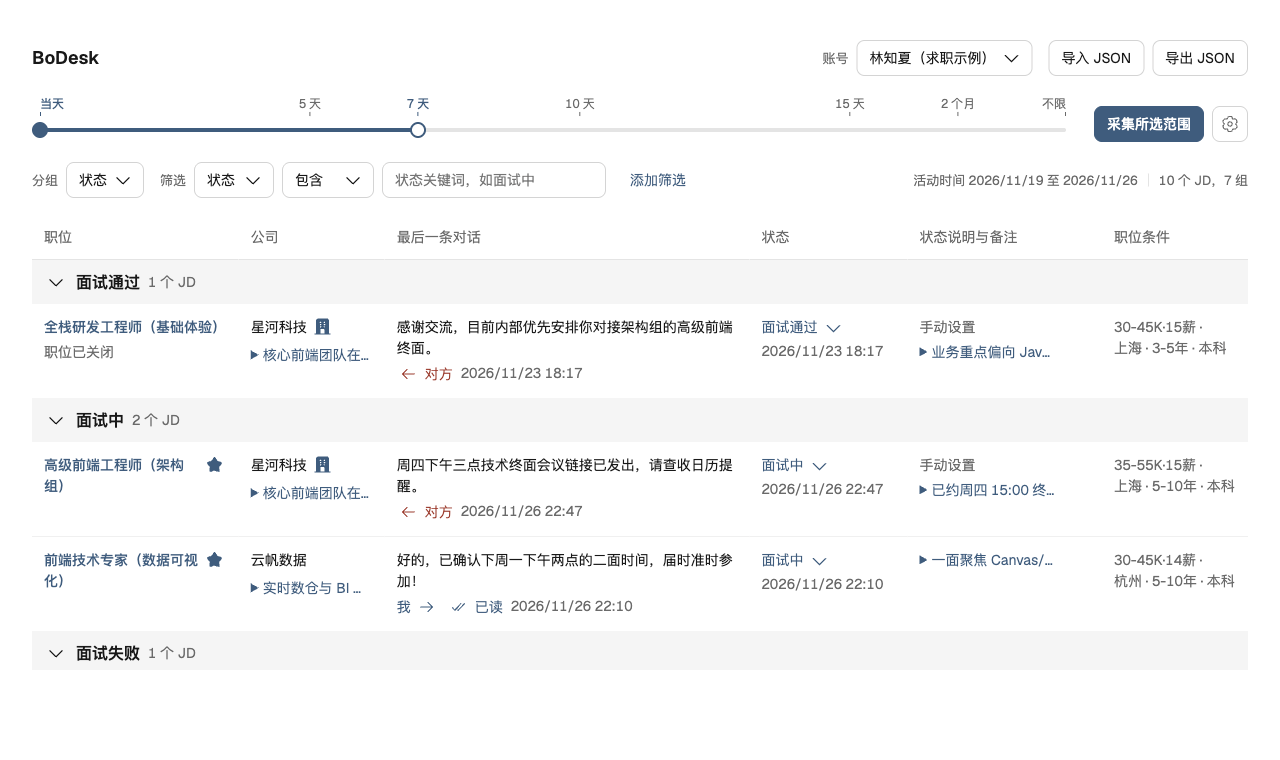
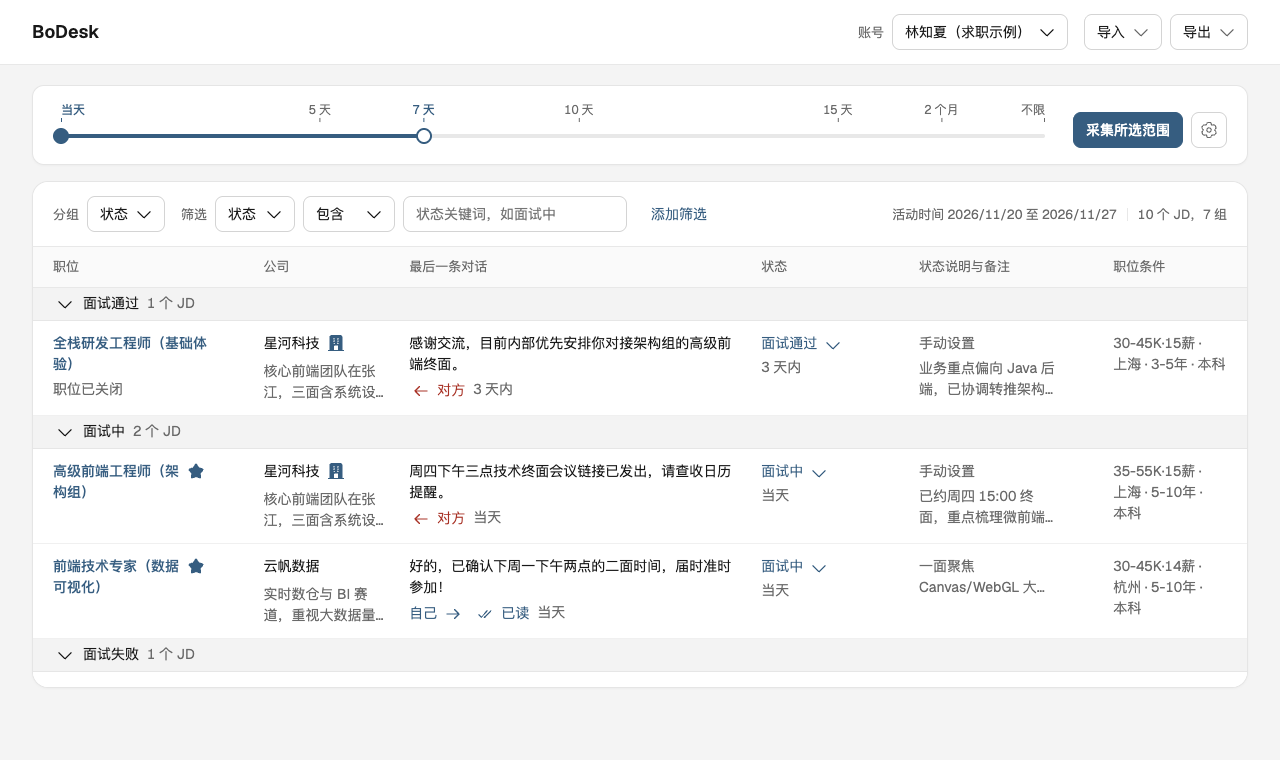
docs: update README and preview media for v0.14.1

diff --git a/extension/README.md b/extension/README.md
@@ -11,21 +11,21 @@
 1. 在同一个「爬虫」空间登录 BOSS 直聘并打开聊天页。扩展加载后需要刷新已打开的 BOSS 页，页面右下角会出现公司与职位浮窗：首行是公司名称，下面每行展示一个 JD 及状态。同公司 JD 按最早已知对话时间从早到晚排列，当前 JD 只高亮、不置顶。没有可用时间的 JD 放在末尾，时间相同或都缺失时按固定记录 ID 排序。新消息、状态和备注变化不会改变顺序；补充到更早历史时，才可能按新发现的首次时间调整。
 2. 点击浮窗的「JD 看板」或浏览器扩展按钮，在同一页选择账号和活动日期，再点「采集所选范围」。采集只处理已加载列表中可能有范围内消息的会话，保存范围内的历史。历史按时间倒序时，翻到起始日期以前即停止。将开始设为「不限」、结束设为当天，可采集全部已加载会话。在「采集设置与详情」的「采集请求间隔」可将当前账号的最短间隔设为 1 至 15 秒，默认 3 秒。调整后自动保存，下一轮采集生效。插件逐个发送主动请求，新打开的页面首次请求前也会等待设定的时长，每发出 20 次再休息 20 秒；会话多时需要较长时间，请保持聊天页打开。可以停止；已保存的记录会保留。出现限流、验证、登录失效、异常响应或网络错误时，插件停止整轮更新，不自动重试；限流或验证异常后同一页面至少等待 5 分钟，并遵守更长的服务器 `Retry-After`，其他请求错误后等待至少 1 分钟；处理问题后可手动再次更新；目前会从列表开头重新读取，已保存的消息按会话和消息 ID 去重，并非从中断位置续传。
 3. 所有 JD 使用同一套卡片布局，当前 JD 以浅绿底色标出。窄屏首次打开时浮窗收起，点击方向箭头查看。消息显示不下时，点击消息右侧的方向箭头查看全文。直接点击任一 JD 的状态文字即可在浮层选择新状态，再点击“确认修改”保存。选择“跟随自动判断”并确认，可撤销手动状态。公司与 JD 的备注都显示在各自标题下方，点击标题右侧的备注图标打开编辑浮层。编辑时暂停浮窗自动刷新，保存失败或切换编辑入口时会保留备注草稿。刷新网页会清除未保存的草稿。
-4. 公司备注与 JD 备注在浮窗中分别保存，不会因自动采集而覆盖；同一条备注在其他页面改变时，保存会提示冲突并保留草稿。历史待定 JD 合并后出现不同备注时，会在“合并前的备注”中保留原文。每个 JD 只有一个当前状态，人工标记优先；面试阶段统一标记为“面试中”。看板可导出当前账号的记录（含备注），也可导入本扩展的 JSON 备份。导入按文件里的账号补入缺少的记录，相同 ID 保留本地版本。导出文件包含隐私，请妥善保管。
+4. 公司备注与 JD 备注在浮窗中分别保存，不会因自动采集而覆盖；同一条备注在其他页面改变时，保存会提示冲突并保留草稿。历史待定 JD 合并后出现不同备注时，会在“合并前的备注”中保留原文。每个 JD 只有一个当前状态，人工标记优先；面试阶段统一标记为“面试中”。看板右上角提供「导入」「导出」二级菜单：导出仅包含当前筛选命中的职位及其关联公司、对话、消息与事件（菜单内会提示当前数量），支持导出 JSON 文件或直接复制 JSON 内容备份，也支持复制/导出按当前分组结构生成的 Markdown 摘要用于 AI 分析；导入支持从 JSON 文件导入或弹窗直接粘贴 JSON 导入，按文件里的账号补入缺少的记录并保留本地版本。导出内容包含隐私，请妥善保管。
 5. 职位列表的右侧详情区、独立职位详情页和公司在招职位页使用与聊天页相同的浮窗，可修改状态、公司备注和 JD 备注。当前职位用 ID 匹配，已保存的职位保持原排序。能识别公司、标题和 ID 的新职位会显示临时行，保存 JD 备注或状态时才入库。只保存公司备注时仅更新公司记录，浏览和切换职位不会创建对话。浮窗中的 JD 标题可点击，在新标签打开详情页。
 6. 打开 BOSS 个人中心的「感兴趣 → 职位收藏」或「公司收藏」，扩展会收录当前页加载的收藏记录。职位收藏用星标，公司收藏用楼宇图标。未发生对话的收藏 JD 归在「待沟通」组，没有状态时间的职位仅在不限范围时显示。没有可展示 JD 的收藏公司列在看板的「收藏公司」区。取消收藏只更新相应标识，原有对话和备注保留。分页列表仅处理网页已加载部分，未出现在当前页的条目保留原标识。
-7. 点击浮窗内职位标题右侧的垃圾桶图标，确认后删除对应 JD。删除仅作用于当前网页账号，会清除该 JD 的本地状态、备注和相关状态事件；已有对话、聊天消息、其他职位及 BOSS 网页上的收藏不会被删除。为避免刚删除的记录重新出现，后续聊天同步或收藏观察不会自动重新收录同一 JD。
+7. 点击浮窗内或看板职位标题右侧的垃圾桶图标，确认后删除对应 JD。删除仅作用于当前网页账号，会清除该 JD 的本地状态、备注和相关状态事件；已有对话、聊天消息、其他职位及 BOSS 网页上的收藏不会被删除。为避免刚删除的记录重新出现，后续聊天同步或收藏观察不会自动重新收录同一 JD。
 8. 点击公司名称右侧的垃圾桶图标可删除公司本地记录。确认后会清除该公司的备注，并删除旗下所有 JD 的本地记录和状态事件。已有对话和消息保留，后续聊天同步或收藏观察不会重新收录该公司及其 JD。
 
 ## 覆盖与准确性
 
 职位收藏卡片或详情页明确标记关闭时，浮窗和看板会显示「职位已关闭」，保留原沟通进度、星标和备注。打开详情页确认重新招聘后会移除关闭标记。检测时间是扩展看到变更的时间，扩展仅在打开相关页面时更新招聘状态。
 
-「JD 看板」按当前账号的 JD 状态分组，推进较深的阶段在上方。点击组名可独立收起或展开，组内按状态时间从近到远排序。每个 JD 占一行，展示最后一条真人对话及时间、状态时间和备注，薪资、地点、经验、学历合并在最后的「职位条件」列。完整消息尚未采集时，满足归属、发送方向和时间条件的列表消息标为「聊天摘要」。自动状态使用判断当前状态所依据的聊天消息时间，手动状态使用对应的操作记录时间，缺少可靠时间时显示「—」。顶部的「活动时间」滑条有两个滑块，可分别选择起止日期。刻度以浏览器本地日期为准，可选当天、往前 1–15 天或 1–3 个月，开始日期也可设为不限。有状态时间的 JD 按范围内的状态或对话更新筛选。没有状态时间的 JD 在开始选「不限」、结束选当天时显示。首次打开默认从 7 天前到当天，两端的选择和各组展开状态保存在当前浏览器。点击带链接的 JD 标题可打开职位详情，点击备注可展开全文。浮窗、其他看板和采集写入本地记录后，打开的看板会自动更新。
+「JD 看板」按当前账号的 JD 状态、公司或收藏状态分组；分组标题整行均可点击展开或收起，组内按状态时间从近到远排序。每个 JD 占一行，展示最后一条真人对话及相对时间（悬停显示精确日期时间）、状态及相对更新日期和两行平铺的备注预览（悬停显示全文），薪资、地点、经验、学历合并在最后的「职位条件」列。浮窗内状态旁同样展示相对更新日期，最近对话发送方与回执与看板统一。完整消息尚未采集时，满足归属、发送方向和时间条件的列表消息标为「聊天摘要」。自动状态使用判断当前状态所依据的聊天消息时间，手动状态使用对应的操作记录时间，缺少可靠时间时显示「—」。顶部的「活动时间」滑条有两个滑块，可分别选择起止日期。刻度以浏览器本地日期为准，可选当天、往前 1–15 天或 1–3 个月，开始日期也可设为不限。有状态时间的 JD 按范围内的状态或对话更新筛选。没有状态时间的 JD 在开始选「不限」、结束选当天时显示。首次打开默认从 7 天前到当天，两端的选择和各组展开状态保存在当前浏览器。点击带链接的 JD 标题可打开职位详情。浮窗、其他看板和采集写入本地记录后，打开的看板会自动更新。
 
 浮窗的“面试中”可根据 BOSS 的面试邀约和接受卡片自动判断。“对方拒绝沟通”“面试通过”和“面试失败”由用户手动设置。手动状态优先，选择“跟随自动判断”可恢复最新自动状态。
 
-看板默认按「状态」分组，可在「分组」中切换为按公司分组。状态列同时展示状态和时间，点击状态可修改，确认后看板立即更新。公司列和「状态说明与备注」列的备注图标分别编辑公司、JD 备注。「筛选」默认展示，支持叠加状态和公司的条件，例如选「状态 → 不包含 → 失败」。分组和筛选条件保存在当前浏览器。
+看板默认按「状态」分组，可在「分组」中切换为按「公司」或「收藏」（已收藏职位 / 已收藏公司 / 未收藏）分组。状态列同时展示状态和相对时间，点击状态可修改，确认后看板立即更新。公司列和「状态说明与备注」列的备注图标分别编辑公司、JD 备注。「筛选」默认展示，支持叠加状态、公司和收藏条件，例如选「状态 → 不包含 → 失败」或「收藏 → 等于 → 已收藏职位」。分组和筛选条件保存在当前浏览器。
 
 - 限速作用于插件在同一聊天页面中主动发送的采集请求，不控制网页自身的请求。不同账号或不同浏览器空间的页面分别计数；刷新页面会重置本页的间隔和休息计数。因此请避免在多个空间同时启动采集，也不要频繁刷新页面后重复更新。降低频率不能保证不会触发网站限制。
 - 更新范围是**网页当前已加载的联系人列表**。本次账号列表显示 5 个并提示“没有更多了”，但这不能证明账号所有历史会话都在列表中；搜索框的“30 天”提示也不足以推断完整范围。网页接口或结构改变、断线、风控、被删除的会话等都可能导致缺失。
